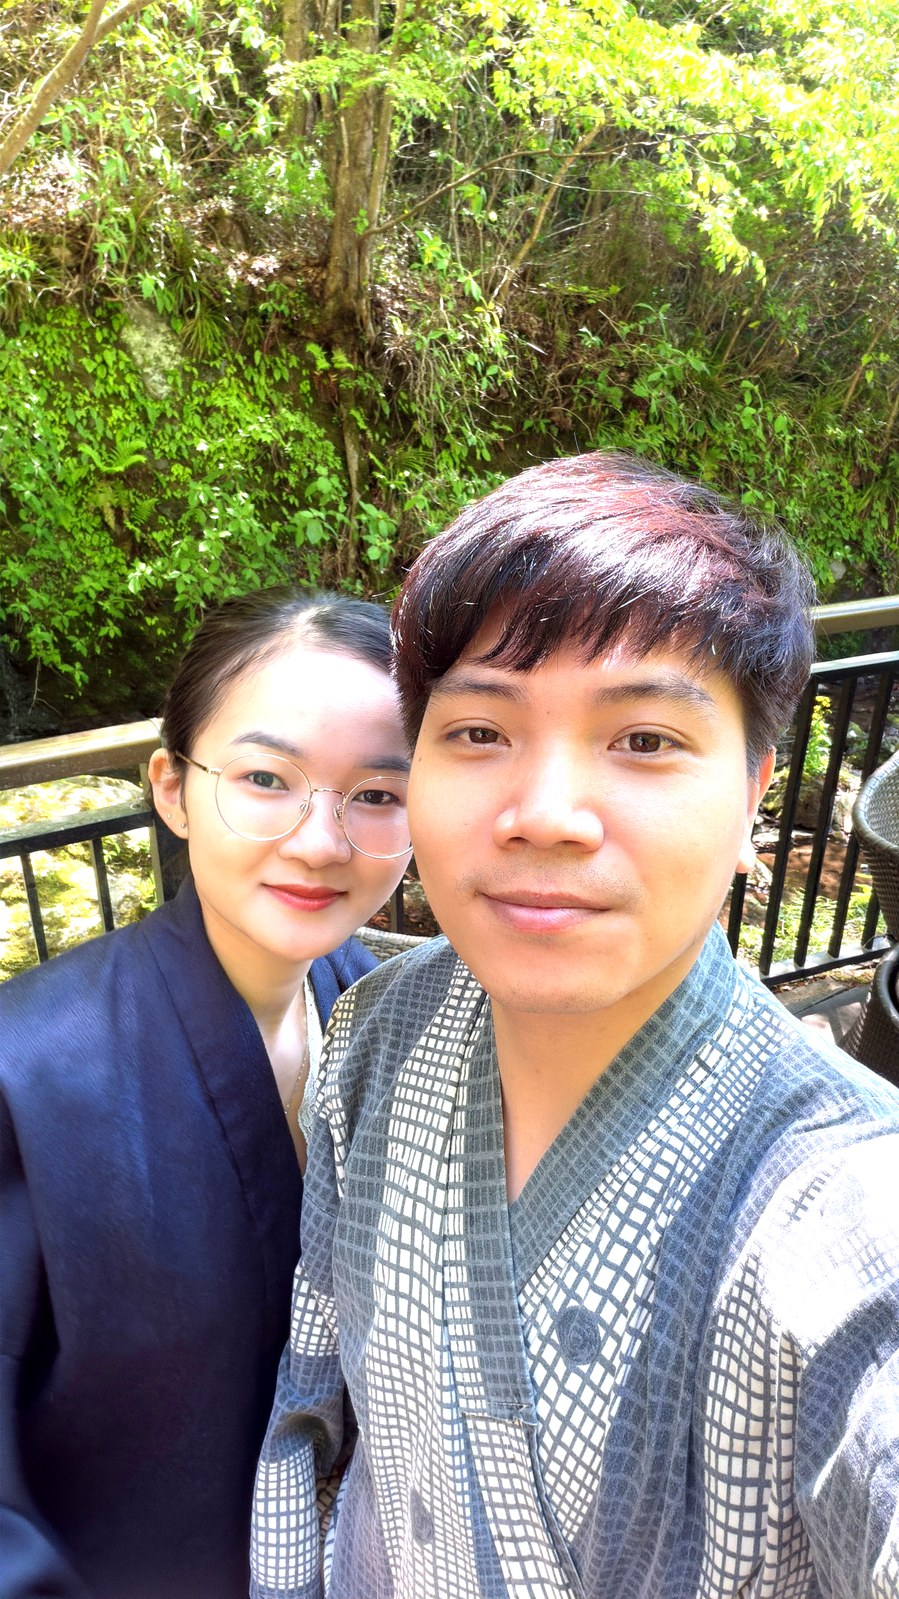
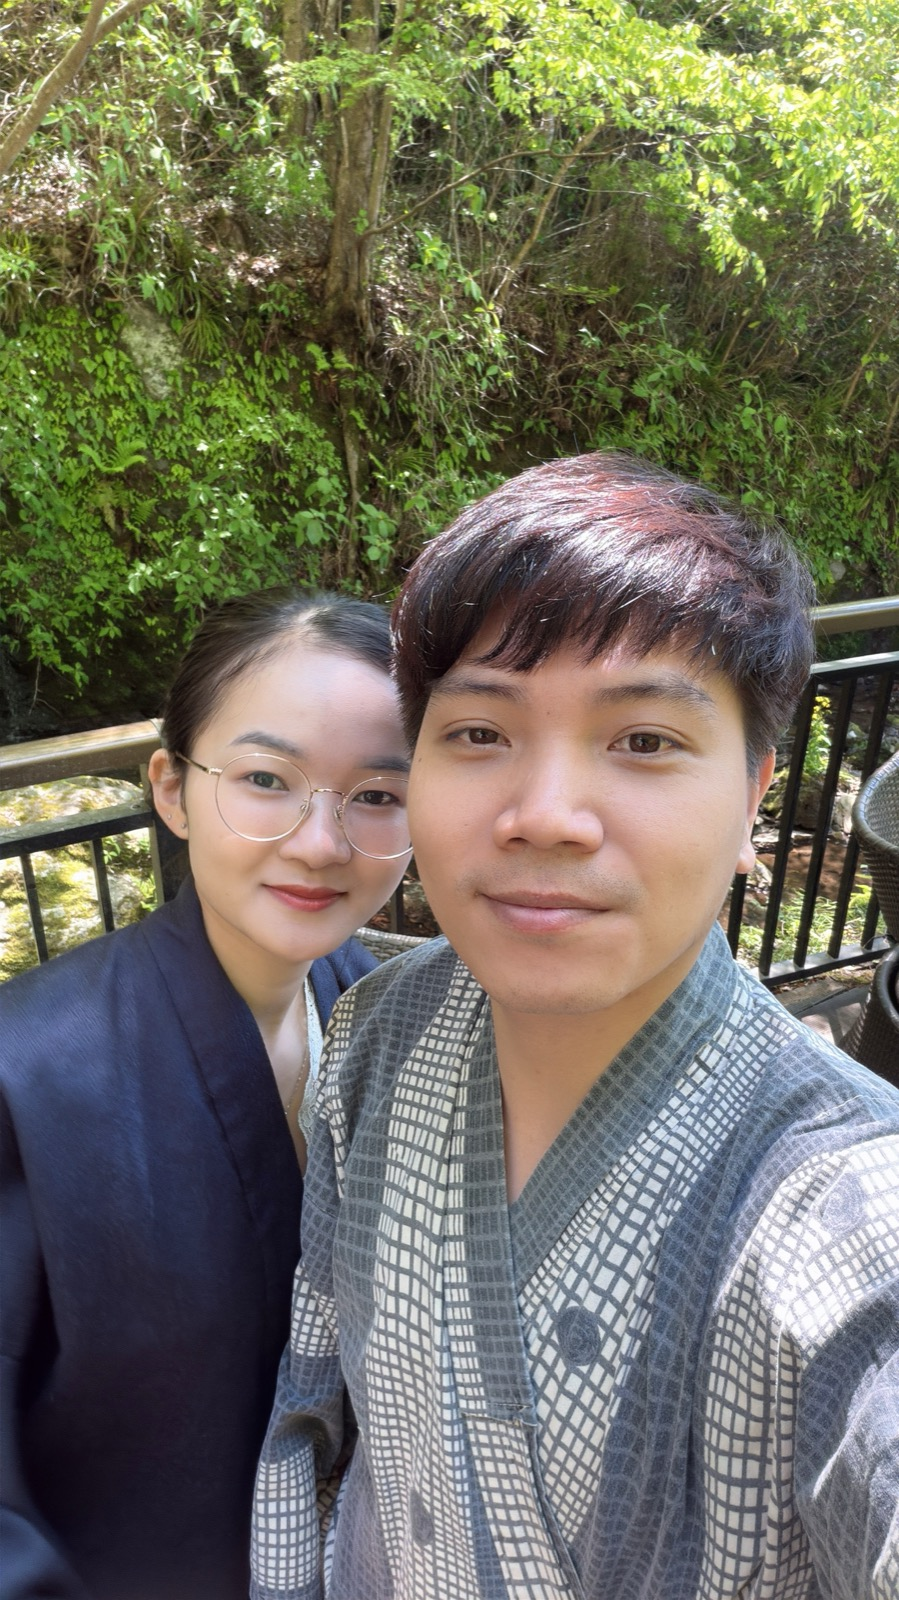
Revert photo brightness changes to restore original images and CSS.
Restore public/styles.css and portrait JPGs from e7868f2 to fix rotation
and over-processed appearance from re-export commits.

diff --git a/public/styles.css b/public/styles.css
@@ -9,12 +9,6 @@
   --shadow: 0 20px 60px rgba(61, 47, 42, 0.12);
   --font-serif: 'Cormorant Garamond', Georgia, serif;
   --font-sans: 'Montserrat', system-ui, sans-serif;
-  /* Photo enhancement — JPG đã brighten; CSS tinh chỉnh nhẹ */
-  --photo-filter: brightness(1.08) contrast(1.03) saturate(1.14) hue-rotate(-2deg);
-  --photo-filter-portrait: brightness(1.08) contrast(1.02) saturate(1.14) hue-rotate(-3deg);
-  --photo-filter-hover: brightness(1.12) contrast(1.04) saturate(1.16) hue-rotate(-2deg);
-  --photo-filter-lightbox: brightness(1.1) contrast(1.03) saturate(1.12) hue-rotate(-2deg);
-  --photo-glow: 0 0 48px rgba(255, 220, 195, 0.28);
 }
 
 *, *::before, *::after {
@@ -197,22 +191,14 @@ a {
   content: '';
   position: absolute;
   inset: 0;
-  background: linear-gradient(
-    to right,
-    rgba(250, 247, 242, 0.42) 0%,
-    rgba(255, 235, 220, 0.05) 22%,
-    transparent 40%
-  );
+  background: linear-gradient(to right, var(--cream) 0%, transparent 30%);
   z-index: 1;
-  pointer-events: none;
 }
 
 .hero-image img {
   width: 100%;
   height: 100%;
   object-fit: cover;
-  filter: var(--photo-filter-portrait);
-  transition: filter 0.5s ease;
 }
 
 /* Sections */
@@ -271,9 +257,7 @@ a {
   height: 320px;
   object-fit: cover;
   border-radius: 4px;
-  box-shadow: var(--shadow), var(--photo-glow);
-  filter: var(--photo-filter-portrait);
-  transition: filter 0.4s ease;
+  box-shadow: var(--shadow);
 }
 
 .story-text h3 {
@@ -312,12 +296,10 @@ a {
   width: 100%;
   height: 100%;
   object-fit: cover;
-  filter: var(--photo-filter);
-  transition: filter 0.4s ease, transform 0.5s ease;
+  transition: transform 0.5s ease;
 }
 
 .gallery-item:hover img {
-  filter: var(--photo-filter-hover);
   transform: scale(1.05);
 }
 
@@ -384,9 +366,7 @@ a {
   object-fit: cover;
   margin: 0 auto 1rem;
   border: 3px solid var(--white);
-  box-shadow: var(--shadow), var(--photo-glow);
-  filter: var(--photo-filter-portrait);
-  transition: filter 0.4s ease;
+  box-shadow: var(--shadow);
 }
 
 .person h4 {
@@ -449,8 +429,6 @@ a {
   max-width: 90vw;
   object-fit: contain;
   border-radius: 4px;
-  filter: var(--photo-filter-lightbox);
-  box-shadow: 0 24px 80px rgba(0, 0, 0, 0.35), var(--photo-glow);
 }
 
 .lightbox-close {
@@ -478,12 +456,7 @@ a {
   }
 
   .hero-image::before {
-    background: linear-gradient(
-      to bottom,
-      rgba(255, 235, 220, 0.06) 0%,
-      transparent 55%,
-      rgba(250, 247, 242, 0.85) 100%
-    );
+    background: linear-gradient(to bottom, transparent 60%, var(--cream) 100%);
   }
 
   .hero-content {
